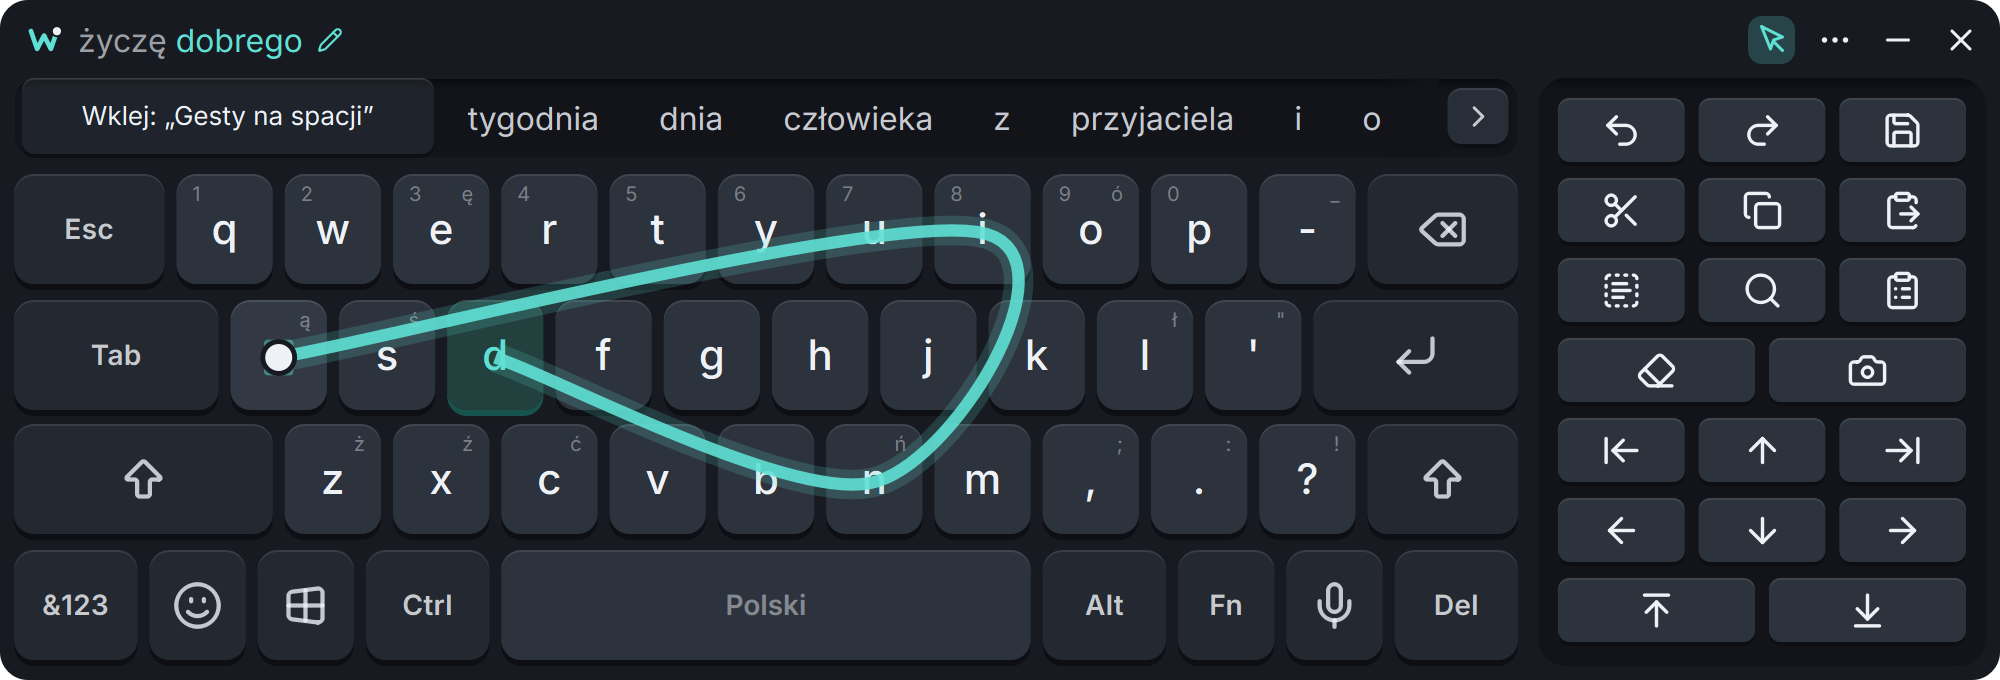
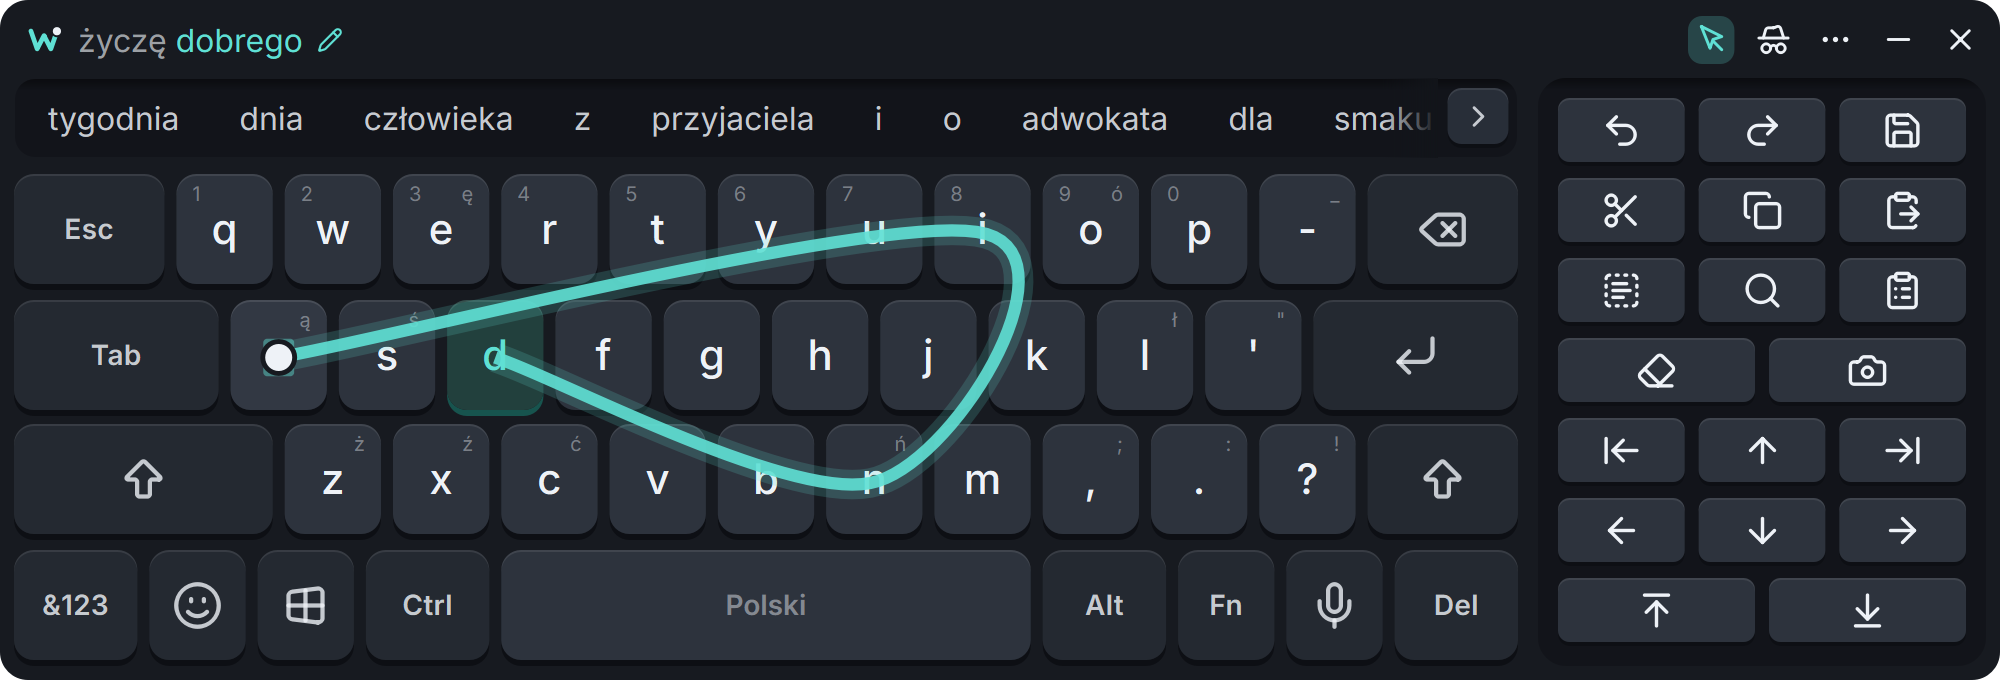
Website from wodzik 13267f2

Changed region(s): [[0.031, 0.1544, 0.713, 0.2162], [0.837, 0.0, 0.899, 0.0926]]

diff --git a/index.html b/index.html
@@ -13,7 +13,7 @@
 <link rel="icon" href="logo.svg" type="image/svg+xml">
 <link rel="preload" href="fonts/manrope-latin.woff2" as="font" type="font/woff2" crossorigin>
 <link rel="preload" href="fonts/inter-latin.woff2" as="font" type="font/woff2" crossorigin>
-<link rel="stylesheet" href="style.css?v=ec06244598">
+<link rel="stylesheet" href="style.css?v=a64e0dc793">
 <script src="main.js?v=2b3e783d74" defer></script>
 </head>
 <body>
@@ -22,7 +22,7 @@
 <header class="top" id="top">
   <div class="wrap">
     <a class="brand" href="#tresc" aria-label="Wodzik, początek strony">
-      <img src="logo.svg" alt="" width="32" height="32">Wodzik <span class="badge">v0.7</span>
+      <img src="logo.svg" alt="" width="32" height="32">Wodzik <span class="badge">v0.8</span>
     </a>
     <nav class="nav" id="menu" aria-label="Sekcje strony">
       <a href="#funkcje">Funkcje</a>
@@ -409,10 +409,12 @@
         <span><svg class="icon"><use href="icons.svg#copy"/></svg>Kopiuj</span>
         <span><svg class="icon"><use href="icons.svg#scissors"/></svg>Wytnij</span>
         <span><svg class="icon"><use href="icons.svg#trash-2"/></svg>Usuń</span>
+        <span>( )</span>
+        <span>„ ”</span>
         <span class="add">+ 7 słów</span>
       </div>
       <blockquote>„Szybkie <mark>redagowanie dokumentów</mark> bez odrywania ręki od myszy”</blockquote>
-      <p>„+ 7 słów” dodaje do słownika wszystkie słowa z zaznaczenia, których słownik jeszcze nie zna.</p>
+      <p>Dwa przyciski biorą zaznaczenie w ( ) albo w „ ”. „+ 7 słów” dodaje do słownika wszystkie słowa z zaznaczenia, których słownik jeszcze nie zna.</p>
     </div>
   </div>
 </section>
@@ -553,14 +555,14 @@
       <article class="card cap">
         <div class="ico"><svg class="icon" aria-hidden="true"><use href="icons.svg#eye-off"/></svg></div>
         <h3>Pola haseł</h3>
-        <p>W polach haseł, w terminalach i w wybranych programach nic nie jest podpowiadane, poprawiane, zapamiętywane ani pokazywane w podglądzie.</p>
-        <div class="foot teal">Lista wykluczeń w ustawieniach</div>
+        <p>W polach haseł, w terminalach i w wybranych programach nic nie jest podpowiadane, poprawiane, zapamiętywane ani pokazywane w podglądzie. Tak samo w trybie prywatnym, który włączysz jednym przyciskiem.</p>
+        <div class="foot teal">Tryb prywatny na górnym pasku</div>
       </article>
       <article class="card cap">
         <div class="ico teal"><svg class="icon" aria-hidden="true"><use href="icons.svg#hard-drive"/></svg></div>
         <h3>Tylko u Ciebie</h3>
-        <p>Bez konta i logowania. Uczenie wstrzymasz jednym przyciskiem, a dane przeniesiesz eksportem do pliku.</p>
-        <div class="foot teal">Pauza uczenia w menu ⋯</div>
+        <p>Bez konta i logowania. Uczenie możesz wstrzymać, a dane przeniesiesz eksportem do pliku.</p>
+        <div class="foot teal">Pauza uczenia w ustawieniach</div>
       </article>
     </div>
     <p class="more"><svg class="icon" aria-hidden="true"><use href="icons.svg#shield-check"/></svg>
@@ -638,7 +640,7 @@
 
 <footer class="foot-bar">
   <div class="wrap">
-    <a class="brand" href="#tresc"><img src="logo.svg" alt="" width="28" height="28">Wodzik 0.7</a>
+    <a class="brand" href="#tresc"><img src="logo.svg" alt="" width="28" height="28">Wodzik 0.8</a>
     <nav aria-label="Linki">
       <a href="#funkcje">Funkcje</a>
       <a href="#prywatnosc">Prywatność</a>

diff --git a/style.css b/style.css
@@ -260,7 +260,7 @@ kbd { padding: 1px 6px; border-radius: 6px; background: var(--surface-3); color:
 .select-demo blockquote { margin: 0; font: 700 clamp(20px, 3vw, 26px)/1.5 var(--font-head); }
 .select-demo mark { padding: 2px 8px; border-radius: 8px; background: color-mix(in srgb, var(--teal) 40%, transparent); color: inherit; }
 .select-demo p { margin-top: 16px; font: 500 13px/1.5 var(--font-mono); color: var(--faint); }
-@media (max-width: 520px) { .bubble span:nth-child(3) { display: none; } }
+@media (max-width: 520px) { .bubble span:nth-child(2), .bubble span:nth-child(3) { display: none; } }
 
 /* code (always dark) */
 .dark { background: var(--navy); color: var(--navy-text); position: relative; overflow: hidden; }
